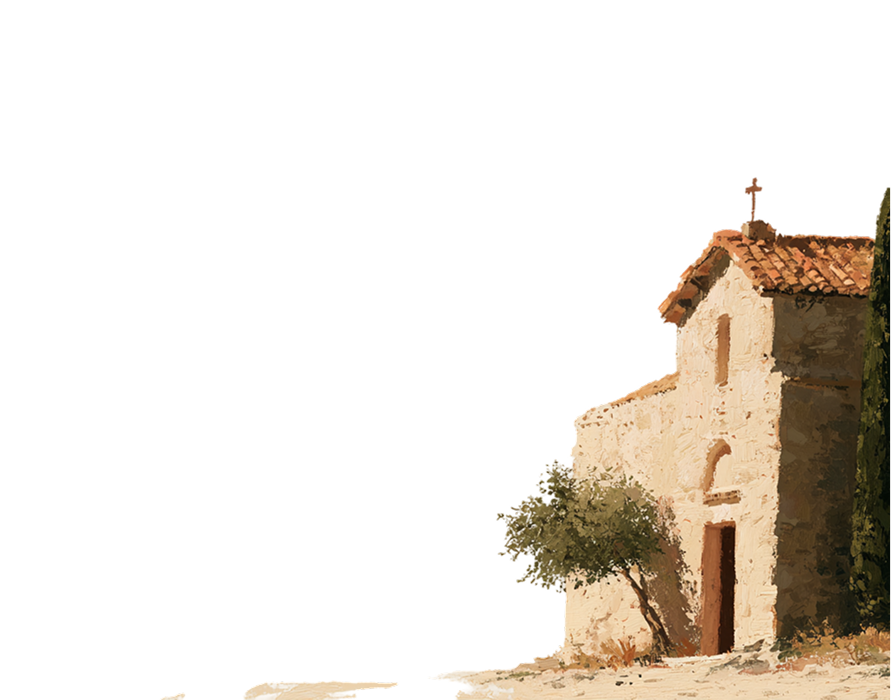
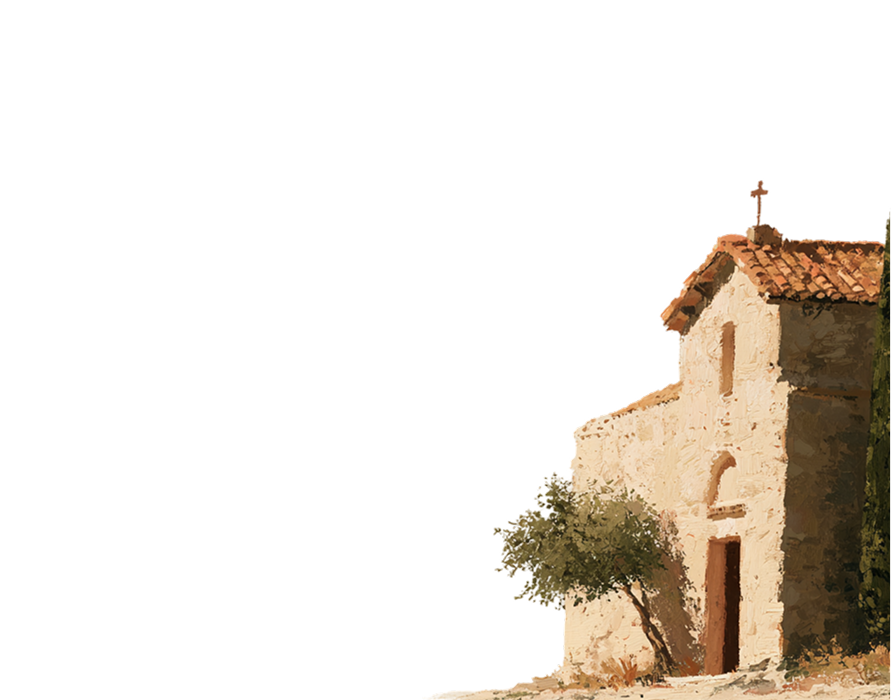
Refine Home stats and Library artwork
- Home greets an unnamed reader as "friend", labels the activity grid with its month, and
  singularizes stat labels.
- Add the Library listen icon and update the church artwork.

Changed region(s): [[0.4848, 0.24, 1.0, 1.0], [0.2727, 0.96, 0.4545, 1.0], [0.1818, 0.99, 0.2121, 1.0]]

diff --git a/Angrove-iOS/Features/Home/HomeDashboardView.swift b/Angrove-iOS/Features/Home/HomeDashboardView.swift
@@ -117,7 +117,7 @@ struct HomeDashboardView: View {
 
     private var displayUserName: String {
         let trimmedName = userName.trimmingCharacters(in: .whitespacesAndNewlines)
-        return trimmedName.isEmpty ? "Ryan" : trimmedName
+        return trimmedName.isEmpty ? "friend" : trimmedName
     }
 
     var body: some View {
@@ -413,8 +413,16 @@ private struct HomeFigmaUsageAndStats: View {
 
     var body: some View {
         HStack(alignment: .center, spacing: 24) {
-            HomeFigmaUsageGrid(month: month)
-                .anchorPreference(key: HomeCalendarBoundsKey.self, value: .bounds) { $0 }
+            VStack(alignment: .leading, spacing: 8) {
+                HomeFigmaUsageGrid(month: month)
+                    .anchorPreference(key: HomeCalendarBoundsKey.self, value: .bounds) { $0 }
+
+                Text("\(month.title) activity")
+                    .font(AngroveTheme.Typography.uiLabel)
+                    .foregroundColor(AngroveTheme.Colors.lightGreen)
+                    .lineLimit(1)
+                    .minimumScaleFactor(0.7)
+            }
 
             HomeFigmaStatsGrid(
                 conversationCount: conversationCount,
@@ -818,9 +826,9 @@ private struct HomeFigmaStatsGrid: View {
             columns: [GridItem(.flexible(), spacing: 8), GridItem(.flexible(), spacing: 8)],
             spacing: 8
         ) {
-            HomeFigmaStat(value: conversationCount, label: "Conversations")
-            HomeFigmaStat(value: insightCount, label: "Insights")
-            HomeFigmaStat(value: studyTopicCount, label: "Topics")
+            HomeFigmaStat(value: conversationCount, label: conversationCount == 1 ? "Conversation" : "Conversations")
+            HomeFigmaStat(value: insightCount, label: insightCount == 1 ? "Insight" : "Insights")
+            HomeFigmaStat(value: studyTopicCount, label: studyTopicCount == 1 ? "Topic" : "Topics")
             HomeFigmaStat(value: unfinishedCount, label: "Open")
         }
     }
